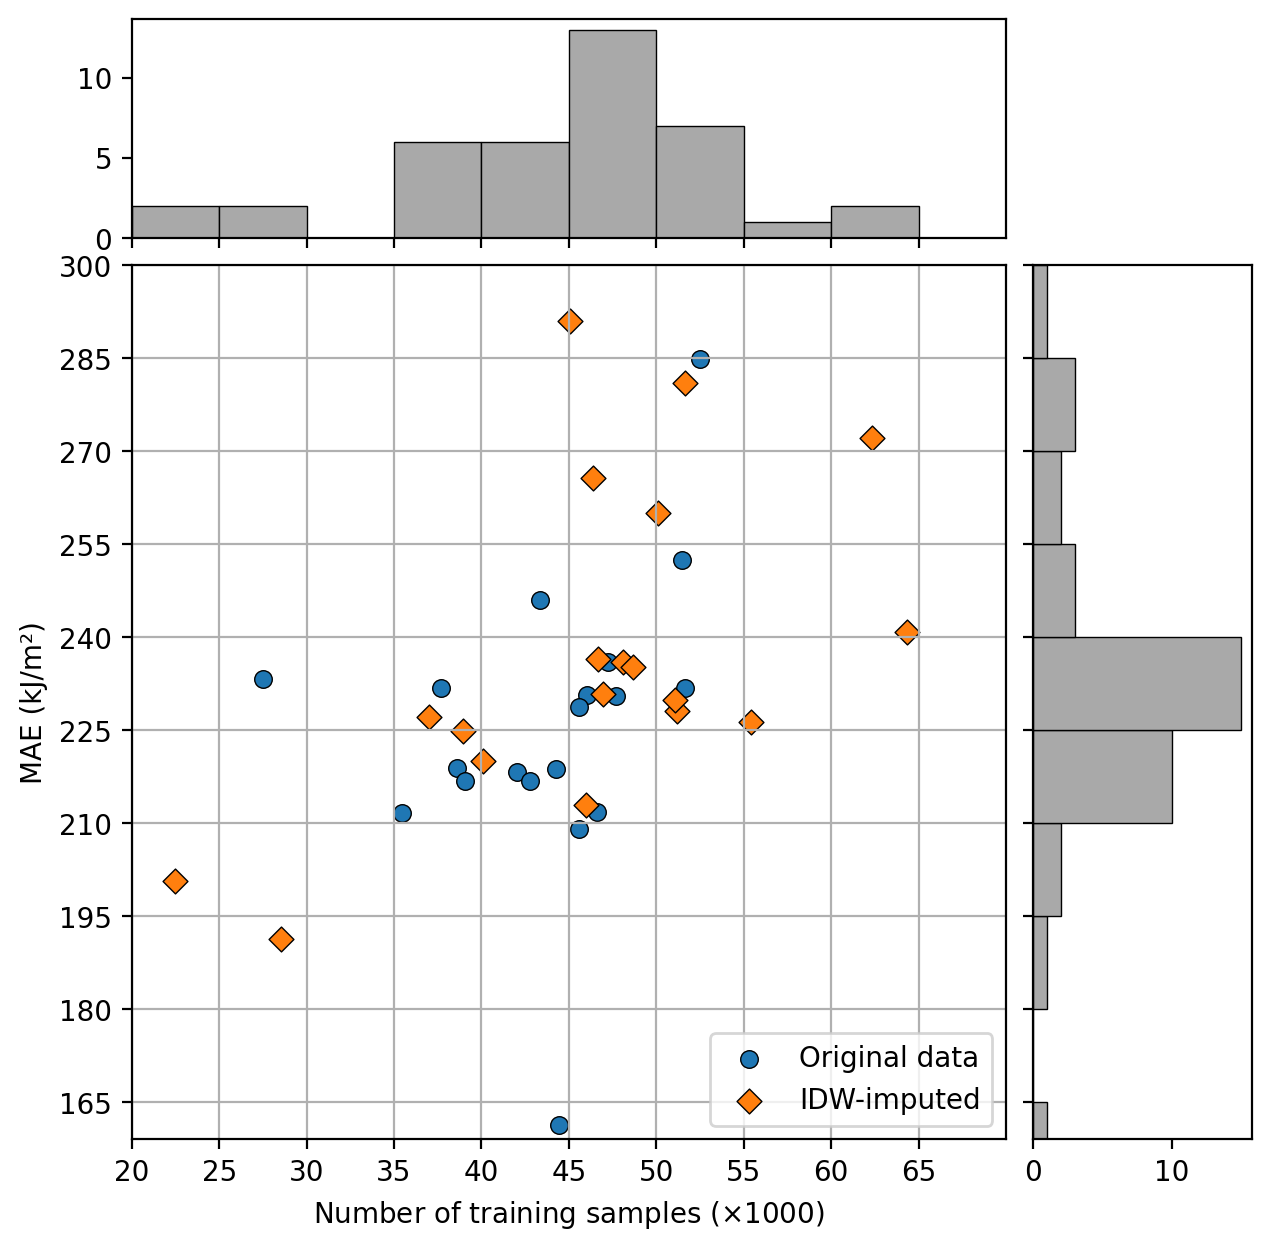
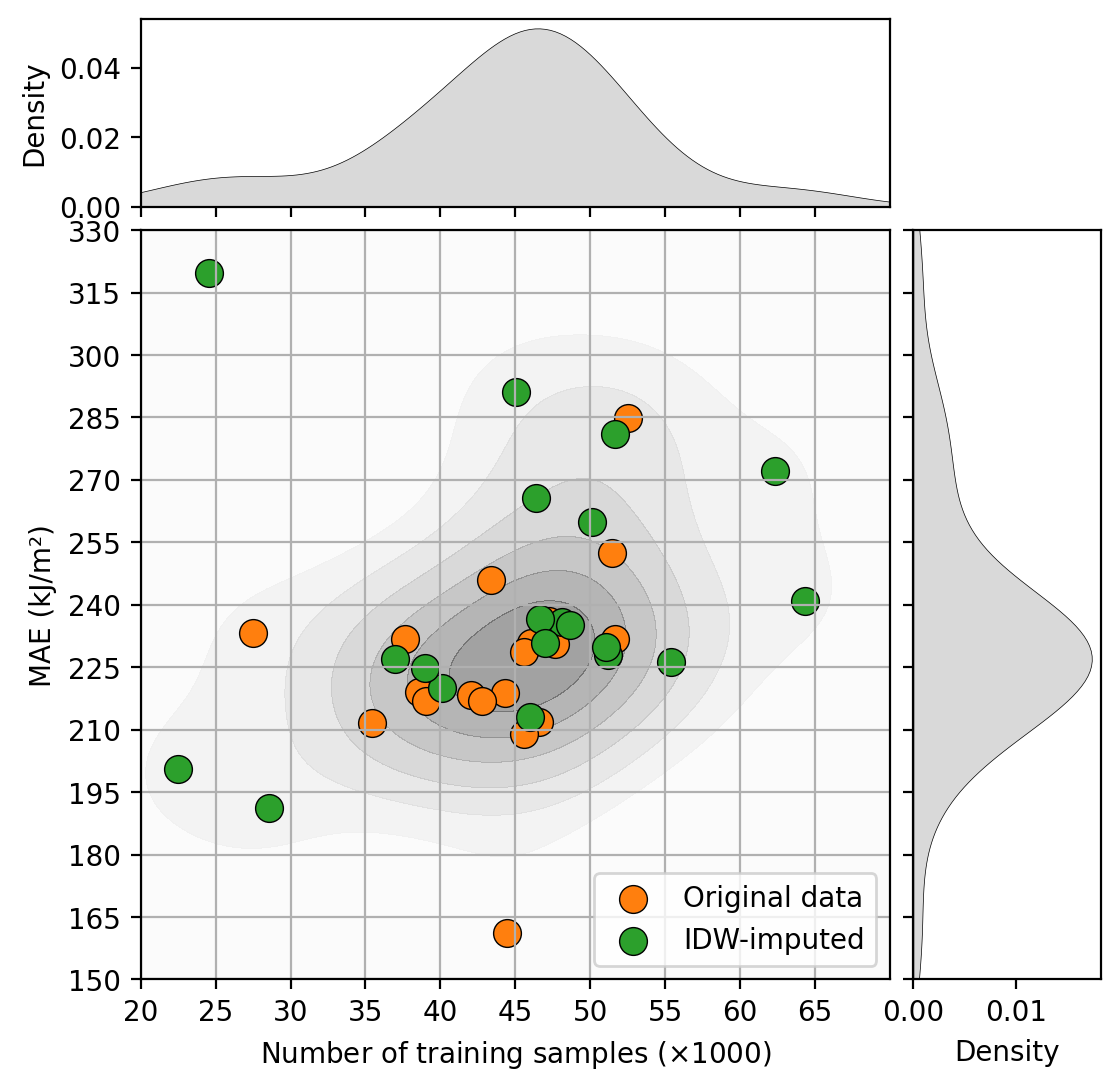
improved performance scatter plot script

Changed region(s): [[0.0, 0.0, 1.0, 0.9982]]

diff --git a/src/visuals/perf_scatter/plot.py b/src/visuals/perf_scatter/plot.py
@@ -1,5 +1,6 @@
 import pandas as pd
 import numpy as np
+import seaborn as sns
 import matplotlib.pyplot as plt
 
 
@@ -14,13 +15,8 @@ def scatter_hist(x, y, ax, ax_histx, ax_histy, color):
     ax_histx.tick_params(axis="x", labelbottom=False)
     ax_histy.tick_params(axis="y", labelleft=False)
 
-    # now determine nice limits by hand:
-    xymax = max(np.max(np.abs(x)), np.max(np.abs(y)))
-    up_bins = set_bins(width=5, xymax=xymax)
-    right_bins = set_bins(width=15, xymax=xymax)
-
-    ax_histx.hist(x, bins=up_bins, color=color, edgecolor='k', linewidth=0.5)
-    ax_histy.hist(y, bins=right_bins, orientation='horizontal', color=color, edgecolor='k', linewidth=0.5)
+    sns.kdeplot(x=x, ax=ax_histx, color=color, fill=True, linewidth=0.25, edgecolor='k')
+    sns.kdeplot(y=y, ax=ax_histy, color=color, fill=True, linewidth=0.25, edgecolor='k')
 
 
 if __name__ == "__main__":
@@ -33,7 +29,7 @@ if __name__ == "__main__":
     interpolated = df[interp_mask].copy()
     original = df[~interp_mask].copy()
 
-    fig = plt.figure(figsize=(7, 7), dpi=200)
+    fig = plt.figure(figsize=(6, 6), dpi=200)
 
     # Add a gridspec with two rows and two columns and a ratio of 1 to 4 between
     # the size of the marginal axes and the main axes in both directions.
@@ -46,28 +42,37 @@ if __name__ == "__main__":
     ax_histx = fig.add_subplot(gs[0, 0], sharex=ax)
     ax_histy = fig.add_subplot(gs[1, 1], sharey=ax)
     # Draw the scatter plot and marginals.
-    scatter_hist(df['train'], df['mae'], ax, ax_histx, ax_histy, color='darkgray')
+    scatter_hist(df['train'], df['mae'], ax, ax_histx, ax_histy, color='dimgray')
+    ax.grid()
+    sns.kdeplot(
+        x=df['train'],
+        y=df['mae'],
+        ax=ax,
+        fill=True,
+        levels=8,
+        alpha=0.4,
+        thresh=0,
+        cmap='binary',
+    )
     ax.scatter(
         original['train'], original['mae'],
         label='Original data',
         edgecolors='k',
         linewidths=0.5,
-        s=40,
+        s=100,
     )
     ax.scatter(
         interpolated['train'], interpolated['mae'],
-        marker='D',
         label='IDW-imputed',
         edgecolors='k',
         linewidths=0.5,
-        s=40,
+        s=100,
     )
 
-    ax.set_yticks(np.arange(150, 315, 15))
-    ax.set_ylim(159, 300)
+    ax.set_yticks(np.arange(150, 365, 15))
+    ax.set_ylim(150, 330)
     ax.set_xticks(np.arange(20, 70, 5))
     ax.set_xlim(20, 70)
-    ax.grid()
     ax.set_ylabel("MAE (kJ/m²)")
     ax.set_xlabel("Number of training samples ($\\times$1000)")
     ax.legend(loc='lower right')
